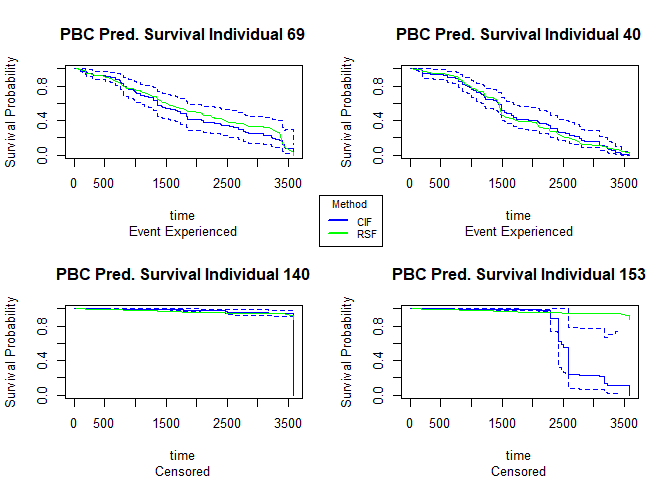
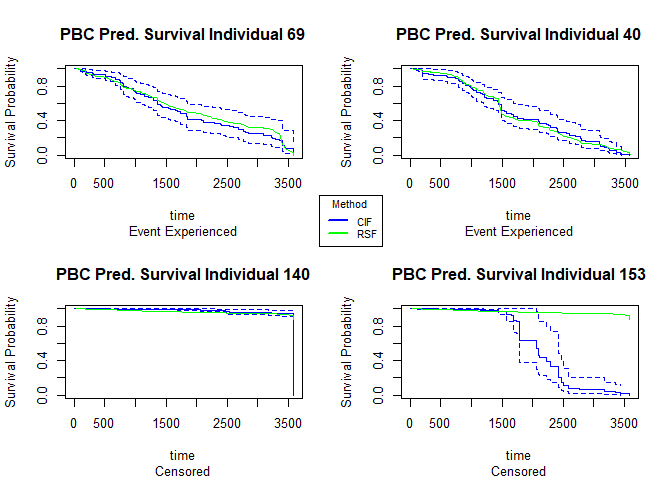
update site

diff --git a/index.md b/index.md
@@ -206,17 +206,17 @@ The algorithm:
 1.  For case weights *w*, set the global null hypothesis of independence
     between any of the *p* covariates and the response variable. Stop
     the algorithm if we fail to reject the null hypothesis. Otherwise,
-    select the *j*th covariate *X<sub>j\*</sub>* with the strongest
+    select the *j*th covariate *X<sub>j</sub>* with the strongest
     association to *T*.
 
 2.  Select a set *A* in *X<sub>j</sub>* in order to split
-    *X<sub>j\*</sub>* into two disjoint sets: *A* and *X<sub>j</sub>*
-    without *A\**. The weights w<sub>a</sub> and w<sub>b</sub> determine
+    *X<sub>j</sub>* into two disjoint sets: *A\** and *X<sub>j</sub>*
+    without *A*. The weights w<sub>a</sub> and w<sub>b</sub> determine
     the two subgroups with
 
 <center>
 
-<img src="img/weights2.png" width="462" />
+<img src="img/weights2.png.png" width="462" />
 
 </center>
 
@@ -480,18 +480,18 @@ model as a whole.
     test.ph
 
     ##             chisq df       p
-    ## age        10.869  1 0.00098
-    ## edema       1.109  1 0.29228
-    ## bili        6.760  1 0.00932
-    ## albumin     3.589  1 0.05816
-    ## copper      0.917  1 0.33837
-    ## ast         0.709  1 0.39969
-    ## protime    14.486  1 0.00014
-    ## stage      17.349  1 3.1e-05
-    ## age:edema   1.044  1 0.30698
-    ## age:copper  0.281  1 0.59625
-    ## bili:ast   11.952  1 0.00055
-    ## GLOBAL     63.574 11 2.0e-09
+    ## age        10.884  1 0.00097
+    ## edema       1.115  1 0.29091
+    ## bili        6.809  1 0.00907
+    ## albumin     3.630  1 0.05673
+    ## copper      0.932  1 0.33430
+    ## ast         0.716  1 0.39761
+    ## protime    14.552  1 0.00014
+    ## stage      17.315  1 3.2e-05
+    ## age:edema   1.053  1 0.30492
+    ## age:copper  0.292  1 0.58908
+    ## bili:ast   11.955  1 0.00055
+    ## GLOBAL     63.669 11 1.9e-09
 
 ![](index_files/figure-markdown_strict/unnamed-chunk-16-1.png)![](index_files/figure-markdown_strict/unnamed-chunk-16-2.png)![](index_files/figure-markdown_strict/unnamed-chunk-16-3.png)![](index_files/figure-markdown_strict/unnamed-chunk-16-4.png)![](index_files/figure-markdown_strict/unnamed-chunk-16-5.png)
 
@@ -639,8 +639,8 @@ negligible.
     ## Integrated Brier score (crps):
     ## 
     ##         AppErr BootCvErr
-    ## rsf      0.041     0.067
-    ## cforest  0.054     0.072
+    ## rsf      0.041     0.068
+    ## cforest  0.054     0.073
 
 ![](index_files/figure-markdown_strict/unnamed-chunk-27-1.png)
 
